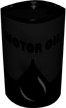
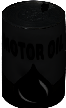
added new can perspective, and lighten when lifted

diff --git a/public/js/app.js b/public/js/app.js
@@ -21,6 +21,7 @@ var monitor = document.getElementById("monitor");
 var desk = document.getElementById("desk");
 var cans = document.getElementById("cans");
 var can = document.getElementById("can");
+var candrink = document.getElementById("candrink");
 var light = document.getElementById("light");
 var antennaleft = document.getElementById("antennaleft");
 var antennaright = document.getElementById("antennaright");
@@ -43,9 +44,10 @@ var drink = new TimelineMax({repeatDelay: 1, repeat: 1, yoyo:true, paused:true})
 drink.to(armRight, 0.2, {rotation: 32}, "start")
      .to(armRightFront, 0.2, {rotation: -45}, "start")
      .to(armRightFront, 0.2, {rotation: "+=65"}, "lift")
-     .to(can, 0.2, {y: "-=60", x: "+=8", rotation: "+=35"}, "lift")
+     .to([can, candrink], 0.2, {y: "-=60", x: "+=8", rotation: "+=35"}, "lift")
      .to(armRight, 0.2, {rotation: "+=42,", scaleY: "-=0.2"}, "liftmore")
-     .to(can, 0.2, {x: "+=10", y: "-=60", rotation: "+=20"}, "liftmore");
+     .to(candrink, 0.2, { opacity: 1}, "liftmore")
+     .to([can, candrink], 0.2, {x: "+=10", y: "-=60", rotation: "+=20"}, "liftmore");
 
 var antennaflutter = new TimelineMax({repeat: 3, yoyo: true, paused: true});
 antennaflutter.to(antennaleft, 0.05, {rotation: 15})

diff --git a/public/index.html b/public/index.html
@@ -41,6 +41,7 @@
         <img id="desk" src="./img/desk.png"/>
         <img id="cans" src="./img/canpile.png"/>
         <img id="can" src="./img/can.png"/>
+        <img id="candrink" src="./img/candrink.png"/>
       </div>
     </div>
   </div>

diff --git a/public/css/style.css b/public/css/style.css
@@ -194,11 +194,15 @@ a:hover {
   left: 160px;
 }
 
-#can {
+#can, #candrink {
   z-index: 12;
   width: 30px;
   top: 200px;
   left: 30px;
+}
+
+#candrink {
+  opacity: 0;
 }
 
 #eyelids {
